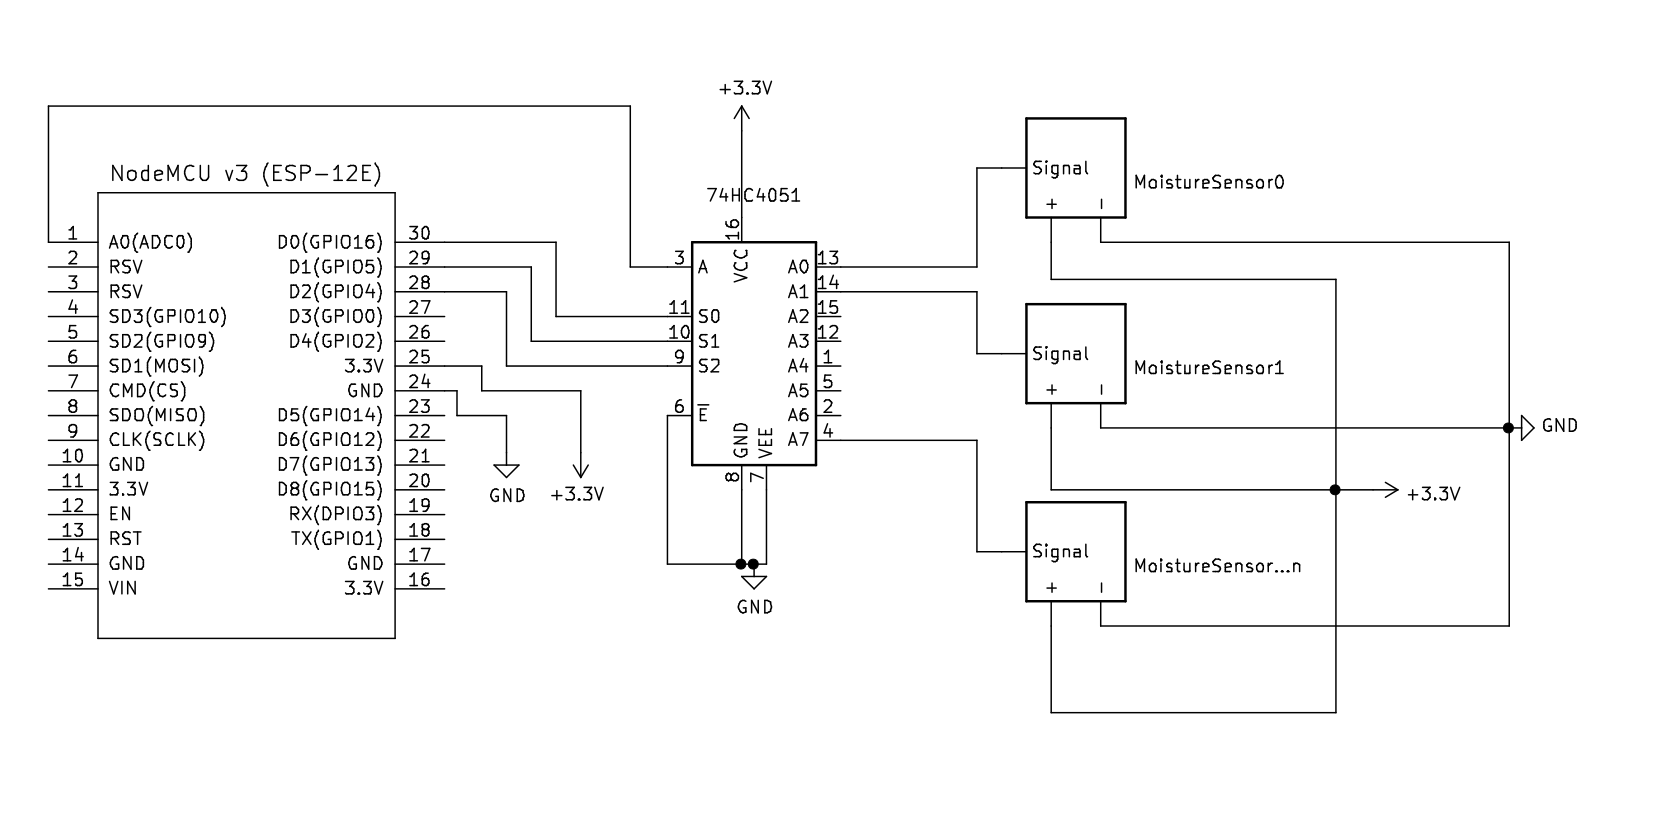
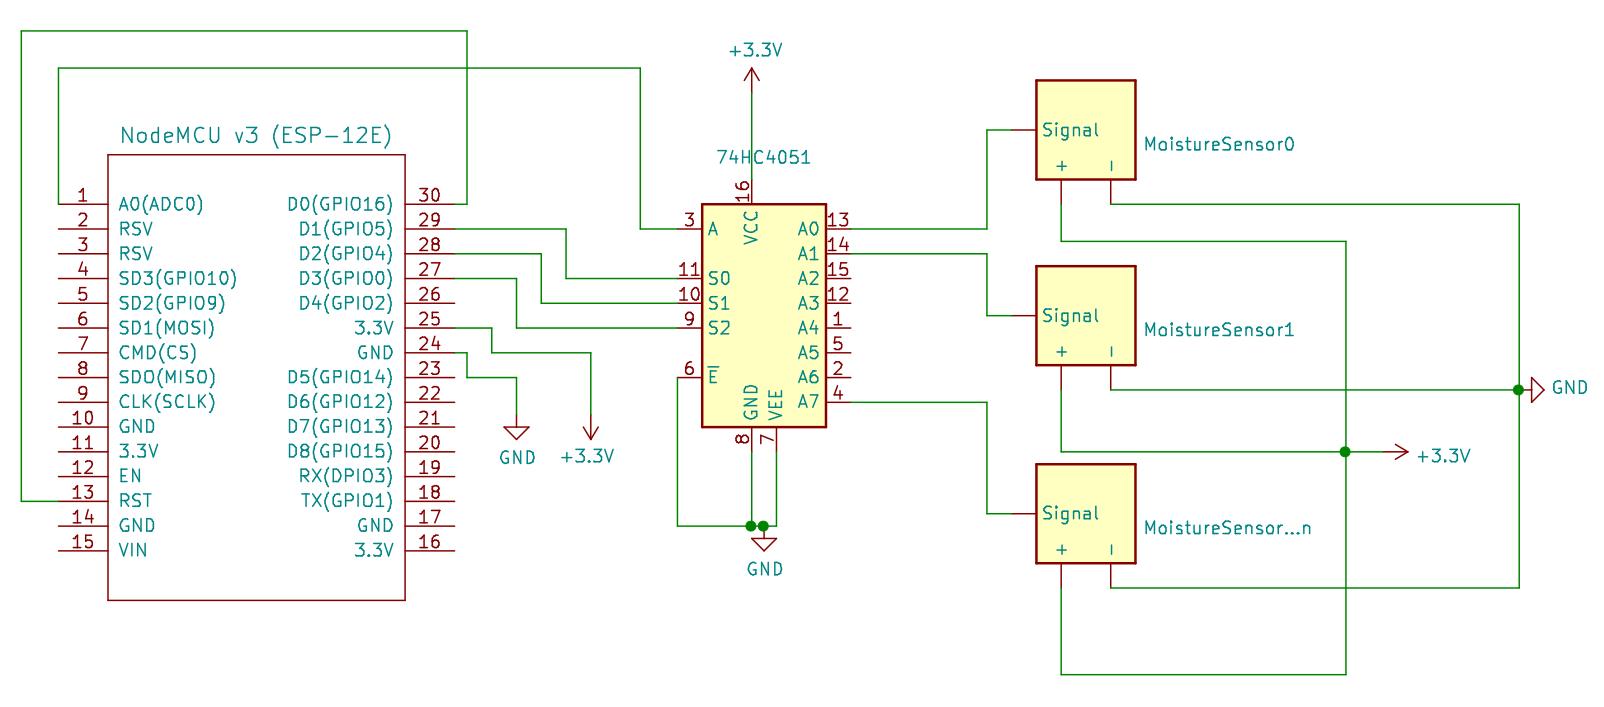
feat(moistureLevel): Change mux pin to free D0 for deep sleep

diff --git a/README.md b/README.md
@@ -4,7 +4,7 @@
 
 ### Modules
 
-- NodeMCU Lolin v3 esp8266 (ESP-12F) Wi-FI CH340: [Documentation](https://docs.zerynth.com/latest/official/board.zerynth.nodemcu3/docs/index.html)
+- NodeMCU Lol1n v3 ESP8266 (ESP-12E) Wi-FI CH340: [Documentation](https://www.instructables.com/Getting-Started-With-ESP8266LiLon-NodeMCU-V3Flashi/)
 - Analog multiplexer 74HC4051_8-Mux: [Data sheet](https://assets.nexperia.com/documents/data-sheet/74HC_HCT4051.pdf)
 - Soil moisture sensor: Funduino [Data sheet](https://www.emartee.com/Attachment.php?name=42241.pdf)
 
@@ -12,7 +12,9 @@
 
 ![schematic](./MoistureLevel/schematic.png)
 
-### Box & Connectics
+### Box, Connectics & PCB
+
+To do
 
 ### Code
 
@@ -46,8 +48,12 @@ cat /dev/ttyUSB0
 
 ### To do
 
-- [ ] Battery
+- [ ] Moisture sensor signal ouput voltage can be up to 1.7v, Analog0 tolerate up to 1v. Is a resistor needed?
+- [ ] Battery [LiFePO4 18650](https://www.all-batteries.fr/accus-lithium-fer-phosphate-ifr18650-lifepo4-3-2v-1-8ah-ft-acl9073.html)
+- [ ] [Power consumption savings](https://diyi0t.com/how-to-reduce-the-esp8266-power-consumption/) with [deep sleep](https://randomnerdtutorials.com/esp8266-deep-sleep-with-arduino-ide/): [gist examples](https://github.com/thingforward/esp8266-deep-sleep-examples)
+- [ ] PCB [how to](https://riton-duino.blogspot.com/2018/11/concevoir-un-pcb.html)
 - [ ] Box and connectics
+- [ ] Solar panels
 - [x] Schemas
 - [x] [arduino-cli](https://github.com/brendandburns/arduino-air-quality-exporter/blob/master/arduino-cli.yaml)
 - [x] [example post request](https://randomnerdtutorials.com/esp8266-nodemcu-http-get-post-arduino/#http-post)
